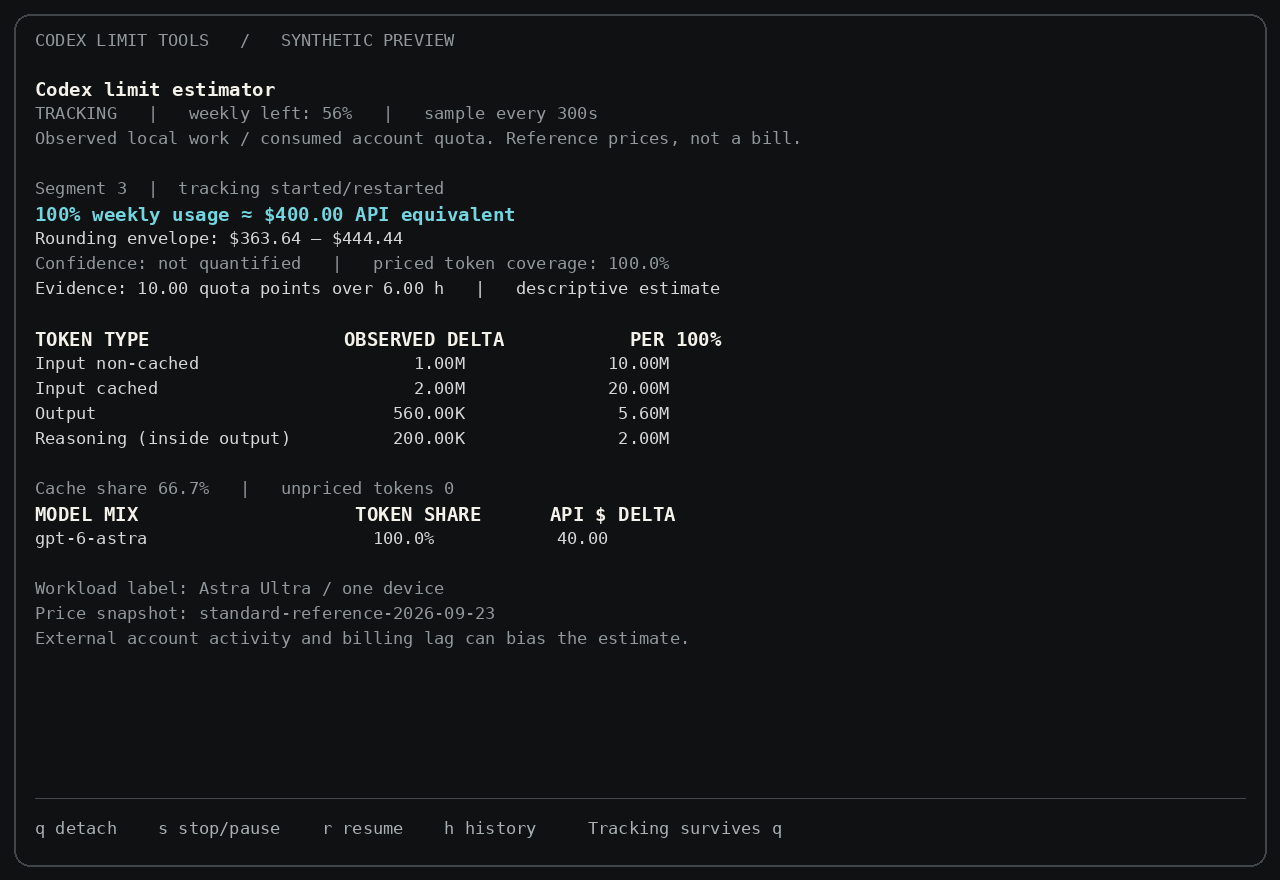
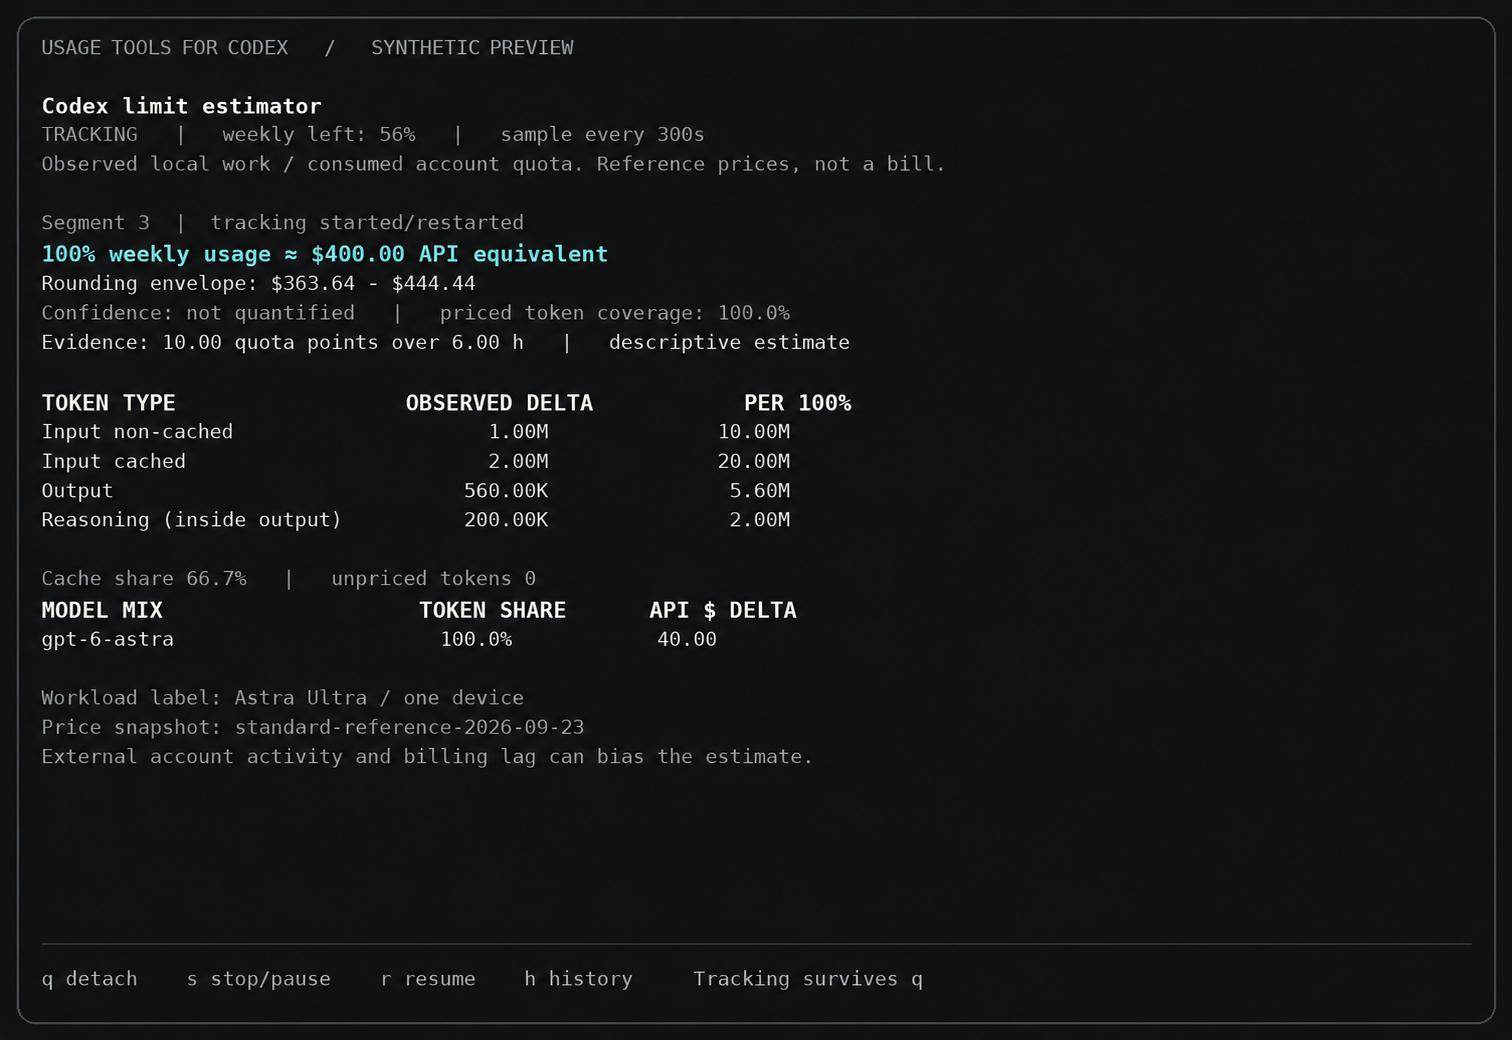
chore: rename project to usage-tools-for-codex

diff --git a/codex_limit_tools/quota.py b/codex_limit_tools/quota.py
@@ -68,7 +68,7 @@ class RPC:
             return msg.get('result')
 
     def initialize(self):
-        self.call('initialize', {'clientInfo': {'name': 'codex_limit_tools', 'version': '2.0.0'}})
+        self.call('initialize', {'clientInfo': {'name': 'usage_tools_for_codex', 'version': '2.0.0'}})
         self.send({'method': 'initialized', 'params': {}})
 
 def number(x):

diff --git a/tasks/Codex-Limit-Estimator-Tasks.md b/tasks/Codex-Limit-Estimator-Tasks.md
@@ -2,7 +2,7 @@
 
 ## Objective
 
-Extend the existing Codex Limit Tools bundle to estimate the API-equivalent cost and token volumes corresponding to 100% of weekly allowance from large observed consumption intervals, such as 73% remaining to 40% remaining, and from multiple compatible segments. Reuse the existing tracker, SQLite history, response index, and frozen JSON price snapshots.
+Extend the existing Usage Tools for Codex bundle to estimate the API-equivalent cost and token volumes corresponding to 100% of weekly allowance from large observed consumption intervals, such as 73% remaining to 40% remaining, and from multiple compatible segments. Reuse the existing tracker, SQLite history, response index, and frozen JSON price snapshots.
 
 Implement these tasks in dependency order. Make routine implementation decisions autonomously, preserve unrelated work, and record material deviations. This document specifies future changes; commands marked **new** are not available in the original bundle.
 

diff --git a/COMMIT-GUIDE.md b/COMMIT-GUIDE.md
@@ -1,4 +1,4 @@
-# Codex Limit Tools — Initial and Intermediate Commits
+# Usage Tools for Codex — Initial and Intermediate Commits
 
 ## Repository layout
 
@@ -94,6 +94,7 @@ backups/
 /dist/
 /build/
 /Codex-Limit-Tools*.zip
+/usage-tools-for-codex*.zip
 ```
 
 Use synthetic fixtures in an explicitly reviewed test location. If a future test genuinely requires a JSONL fixture, add a narrow exception for that fixture rather than removing the general transcript exclusion.
@@ -161,7 +162,7 @@ Inspect names, email addresses, personal paths, credentials, and real account da
 For a new repository containing the original bundle:
 
 ```bash
-git commit -m "chore: establish Codex limit tools baseline and analysis backlog"
+git commit -m "chore: establish Usage Tools for Codex baseline and analysis backlog"
 git log -1 --oneline
 git status --short
 ```

diff --git a/README.md b/README.md
@@ -1,10 +1,18 @@
-# Codex limit tools
+# Usage Tools for Codex
+
+`usage-tools-for-codex` is an independent community project, not affiliated with
+or endorsed by OpenAI.
 
 A project-independent, non-agentic bundle for measuring local token activity per
 percentage point of account quota. Bash is needed only for installation; runtime
 uses Python 3.10+ standard libraries, SQLite, curses, and your authenticated Codex
 CLI. No pip dependencies, API key, extra model session, prompt injection, or
 quota heartbeat messages are used.
+
+The command names remain `codex-usage`, `codex-quota`, and
+`codex-limit-estimator`. The internal Python package `codex_limit_tools`,
+installation directory `codex-limit-tools`, and existing configuration and state
+paths retain their original names for compatibility.
 
 ## Install and start
 

diff --git a/AGENTS.md b/AGENTS.md
@@ -1,4 +1,4 @@
-# Agent Instructions — Codex Limit Tools
+# Agent Instructions — Usage Tools for Codex
 
 ## Scope and execution
 
